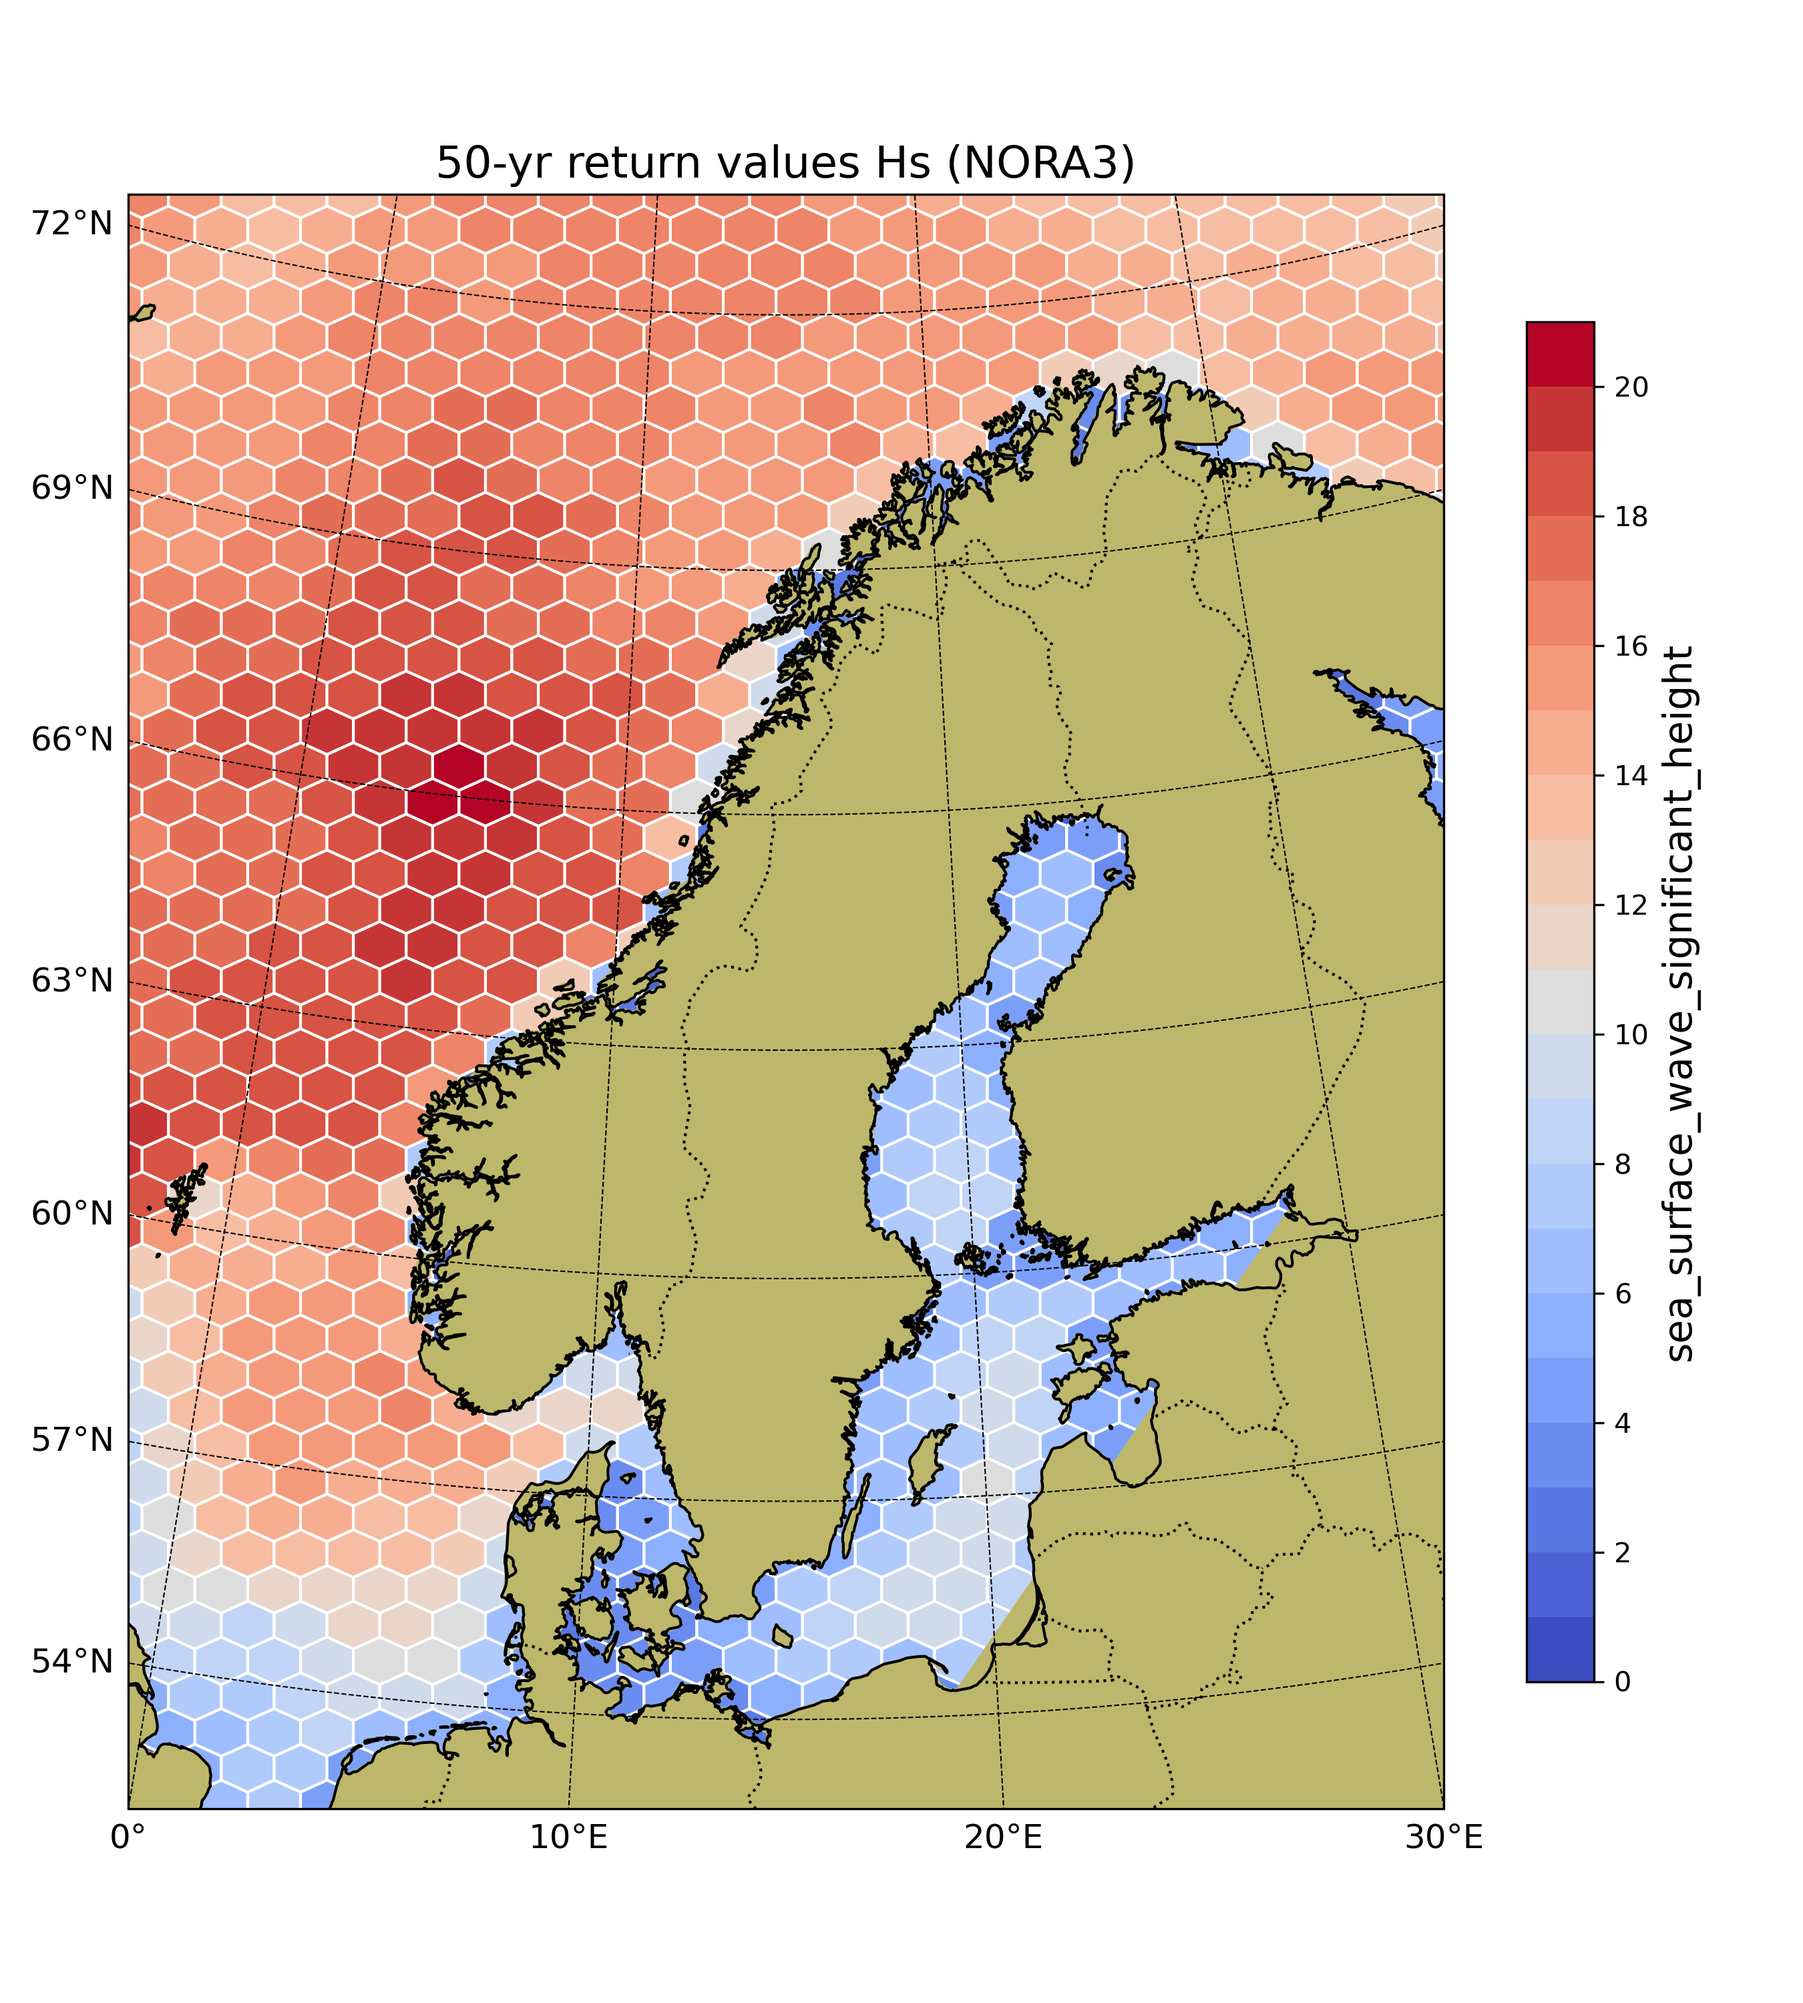
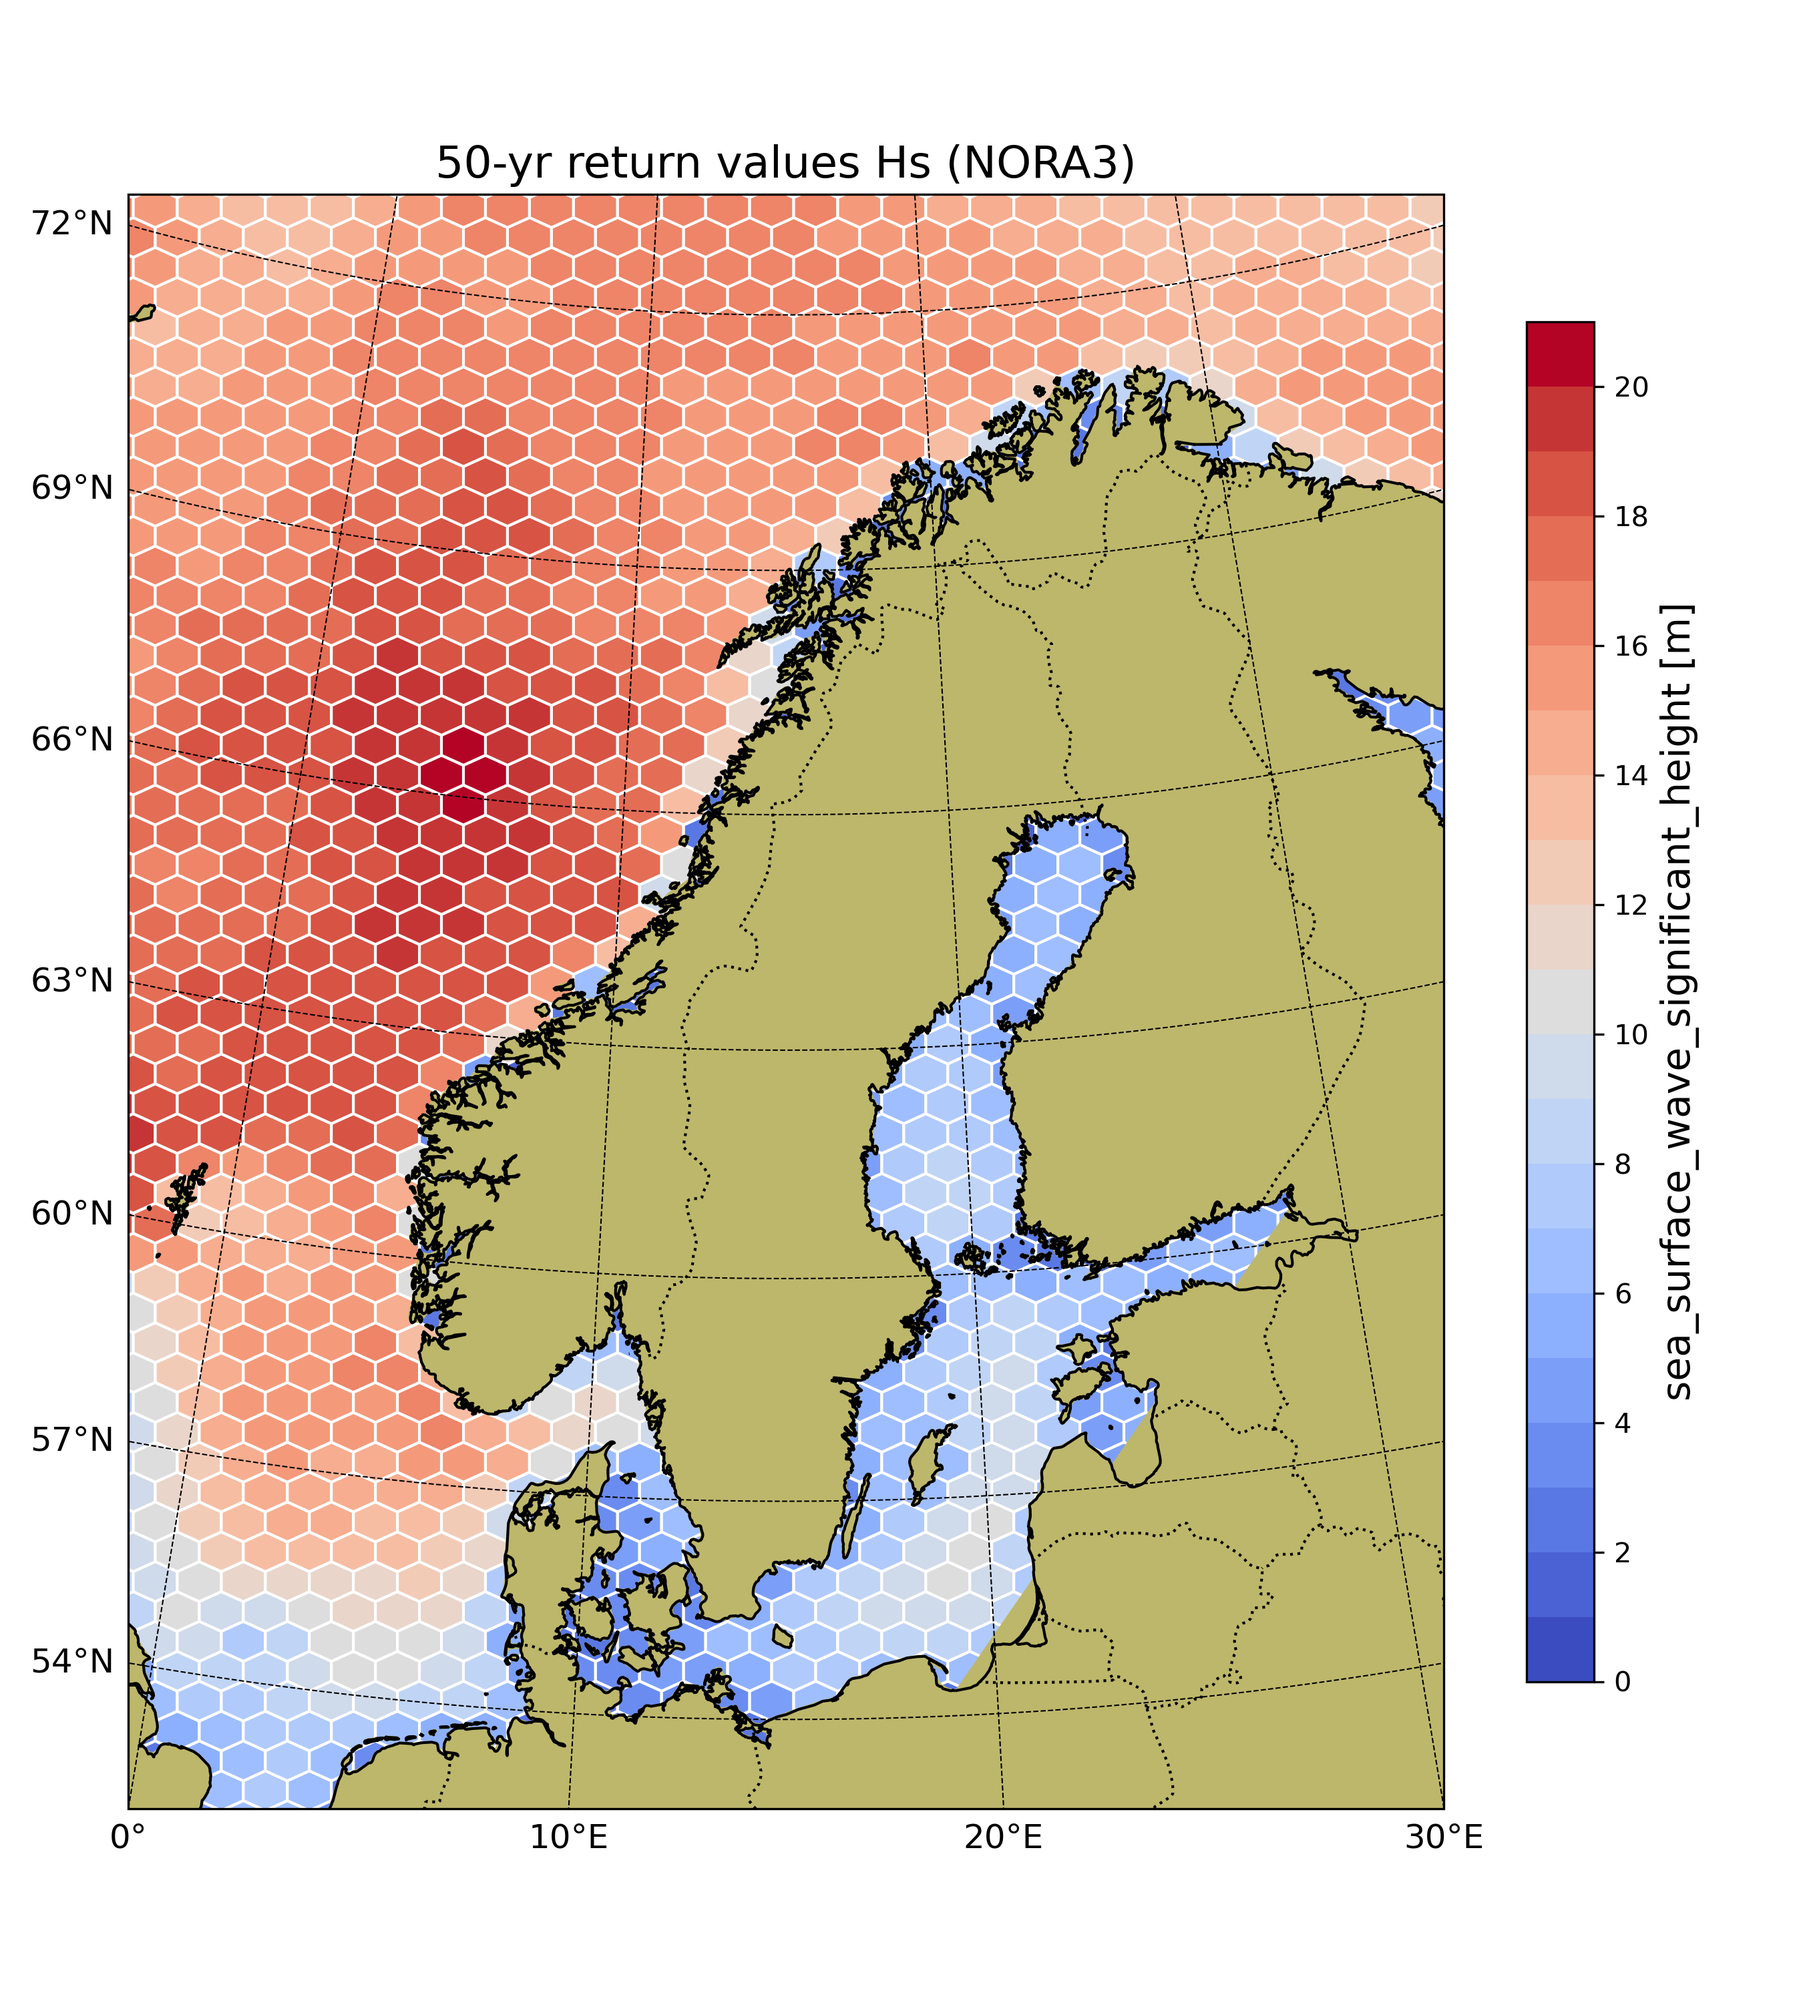
update maps

diff --git a/metocean_stats/stats/map_funcs.py b/metocean_stats/stats/map_funcs.py
@@ -49,7 +49,7 @@ def plot_points_on_map(lon, lat, label, bathymetry='NORA3',output_file='map.png'
     ax = plt.axes(projection=ccrs.PlateCarree())
     # Plot the points with automatic labels
     for i, (lon, lat, label) in enumerate(zip(lon_list, lat_list, label_list)):
-        ax.plot(lon, lat, marker='o', markersize=8, label=f'{label}', transform=ccrs.PlateCarree())
+        ax.plot(lon, lat, marker='o', markersize=8, linewidth=0, label=f'{label}', transform=ccrs.PlateCarree())
 
     # Calculate zoom-in extent
     lat_min = max(min(lat_list) - 3, -90)  # Ensure latitude does not go below -90
@@ -75,7 +75,7 @@ def plot_points_on_map(lon, lat, label, bathymetry='NORA3',output_file='map.png'
         depth_extent = np.ma.masked_where(~mask_extent, depth)
 
         # Plot depth with masked data
-        cont = ax.contourf(standard_lon, standard_lat, depth_extent, levels=100,
+        cont = ax.contourf(standard_lon, standard_lat, depth_extent, levels=30,
                            cmap='binary', transform=ccrs.PlateCarree())
 
         # Add colorbar with limits based on the depth in the zoomed extent
@@ -151,7 +151,7 @@ def plot_extreme_wave_map(return_level=50, product='NORA3', title='empty title',
     ax.add_feature(cfeature.BORDERS, linestyle=':', zorder=3)
 
     # Plot the significant wave height using hexbin with a higher gridsize and discrete colors
-    hb = ax.hexbin(lon_flat, lat_flat, C=hs_flat, gridsize=150, cmap=cmap, vmin=0, vmax=21, edgecolors='white', transform=ccrs.PlateCarree(), reduce_C_function=np.mean, zorder=1)
+    hb = ax.hexbin(lon_flat, lat_flat, C=hs_flat, gridsize=180, cmap=cmap, vmin=0, vmax=21, edgecolors='white', transform=ccrs.PlateCarree(), reduce_C_function=np.mean, zorder=1)
 
     # Add the land feature on top of the hexbin plot
     ax.add_feature(cfeature.LAND, color='darkkhaki', zorder=2)
@@ -172,7 +172,7 @@ def plot_extreme_wave_map(return_level=50, product='NORA3', title='empty title',
 
     # Add colorbar with discrete colors
     cb = plt.colorbar(hb, ax=ax, orientation='vertical', shrink=0.7, pad=0.05, ticks=np.arange(0, 21, 2))
-    cb.set_label(ds[var].standard_name, fontsize=14)
+    cb.set_label(ds[var].attrs.get('standard_name', var)+' ['+ds[var].attrs.get('units', var)+']', fontsize=14)
     plt.tight_layout()
 
     if title is None:
@@ -244,7 +244,7 @@ def plot_extreme_wind_map(return_level=50, product='NORA3', level=0, title='empt
     ax.coastlines(resolution='10m', zorder=3)
     ax.add_feature(cfeature.BORDERS, linestyle=':', zorder=3)
     # Plot the significant wave height using hexbin with a higher gridsize and discrete colors
-    hb = ax.hexbin(lon_flat, lat_flat, C=hs_flat, gridsize=150, cmap=cmap, vmin=hs_flat.min(), vmax=hs_flat.max(), edgecolors='white', transform=ccrs.PlateCarree(), reduce_C_function=np.mean, zorder=1)
+    hb = ax.hexbin(lon_flat, lat_flat, C=hs_flat, gridsize=100, cmap=cmap, vmin=hs_flat.min(), vmax=hs_flat.max(), edgecolors='white', transform=ccrs.PlateCarree(), reduce_C_function=np.mean, zorder=1)
 
     # Add the land feature on top of the hexbin plot
     ax.add_feature(cfeature.LAND, color='darkkhaki', zorder=2)
@@ -265,7 +265,7 @@ def plot_extreme_wind_map(return_level=50, product='NORA3', level=0, title='empt
 
     # Add colorbar with discrete colors
     cb = plt.colorbar(hb, ax=ax, orientation='vertical', shrink=0.7, pad=0.05)
-    cb.set_label(ds[var].attrs.get('standard_name', var), fontsize=14)
+    cb.set_label(ds[var].attrs.get('standard_name', var)+' ['+ds[var].attrs.get('units', var)+']', fontsize=14)
     plt.tight_layout()
     if title is not None:
         plt.title(title, fontsize=16)
